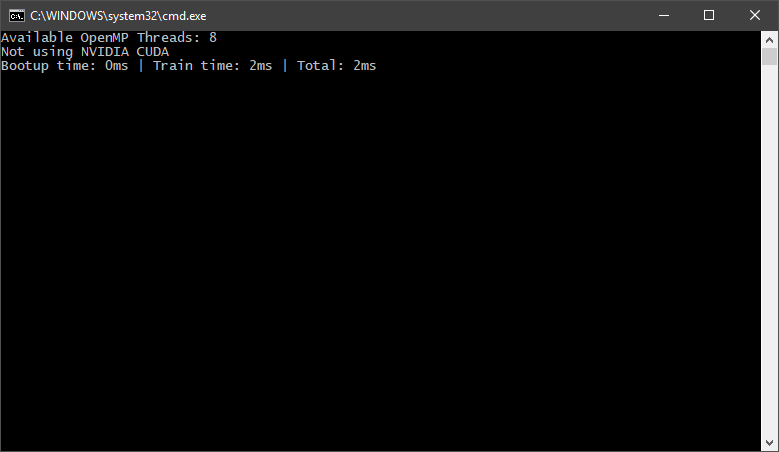
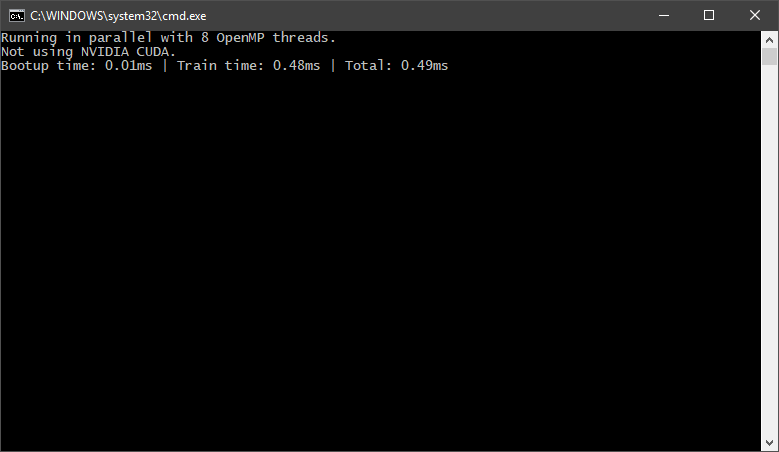
:fire: Update screenshot with new network speed (0.5ms)

Changed region(s): [[0.1232, 0.1239, 0.5854, 0.1549], [0.0, 0.0619, 0.4313, 0.0929]]

diff --git a/BrabeNetzConsole/Trainer.cpp b/BrabeNetzConsole/Trainer.cpp
@@ -14,7 +14,6 @@ typedef bitset<8> byte; // byte
 void trainer::train_xor(network& net, const int train_times)
 {
 	const string format = "{ %.0f, %.0f } = %.3f\n";
-	const int size = 2;
 
 	double* zz = new double[2]{ 0,0 };
 	double* zz_e = new double[1]{ 0 };

diff --git a/README.md b/README.md
@@ -19,11 +19,11 @@ Be sure to [read the network description](DESCRIPTION.md)
 >
 > **SSD:** Samsung 850 EVO 540MB/s
 >
-> **Commit:** [8c67527](https://github.com/mrousavy/BrabeNetz/commit/8c675272ee0318905930357bd089f40148c88dbf)
+> **Commit:** [53328c3](https://github.com/mrousavy/BrabeNetz/commit/53328c3f6cc2f166ad79c7c8d01a4e6a739c3b93)
 
 <p align="center">
    <img align="center" src="Images/cout.png" alt="Console output with elapsed time (2ms)">
-   <p align="center">Training a <b>XOR</b> 1000 times takes just <b>2ms</b></p>
+   <p align="center">Training a <b>XOR</b> 1000 times takes just <b>0.49ms</b></p>
 </p>
 <p align="center">
    <img align="center" src="Images/results.png" alt="Actual trained network prediction output">
